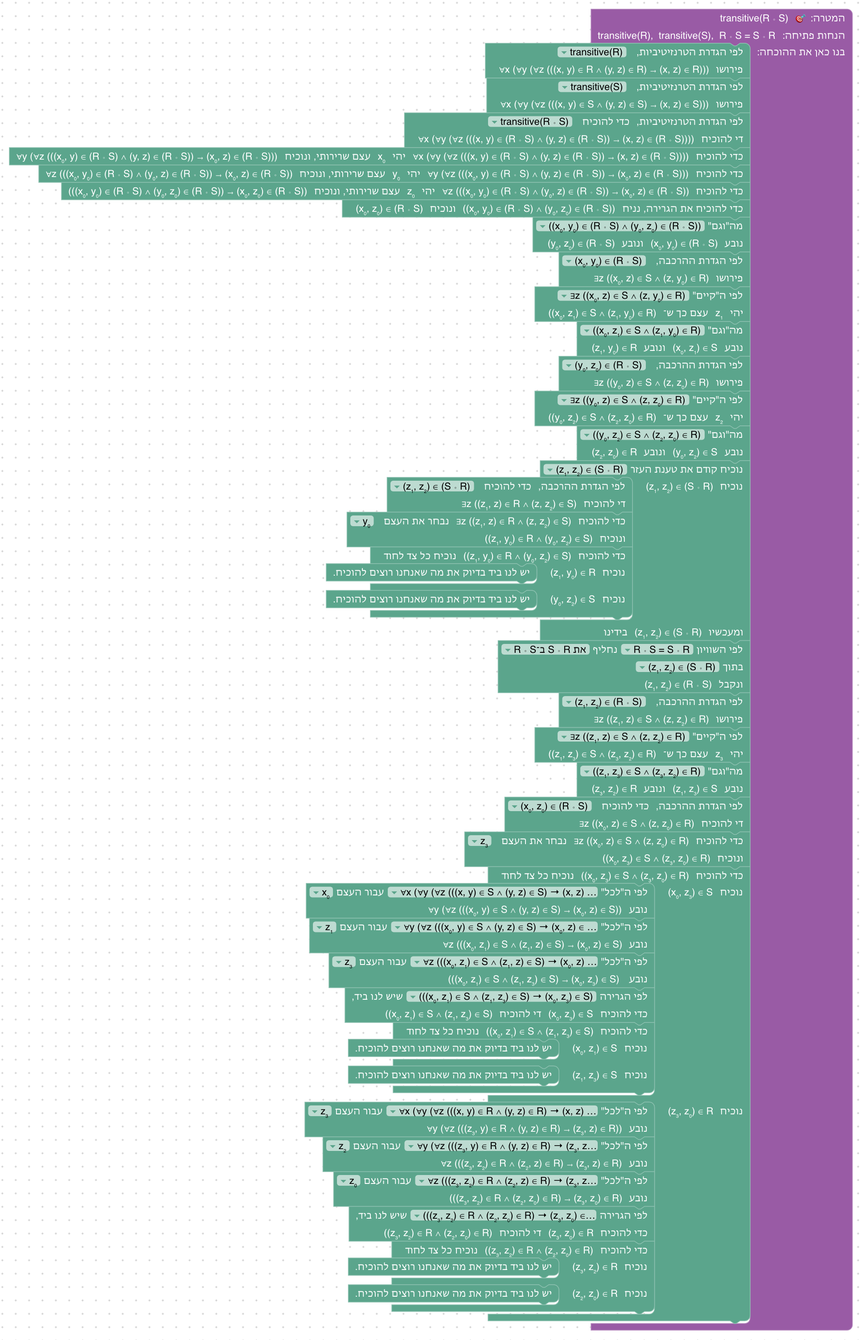
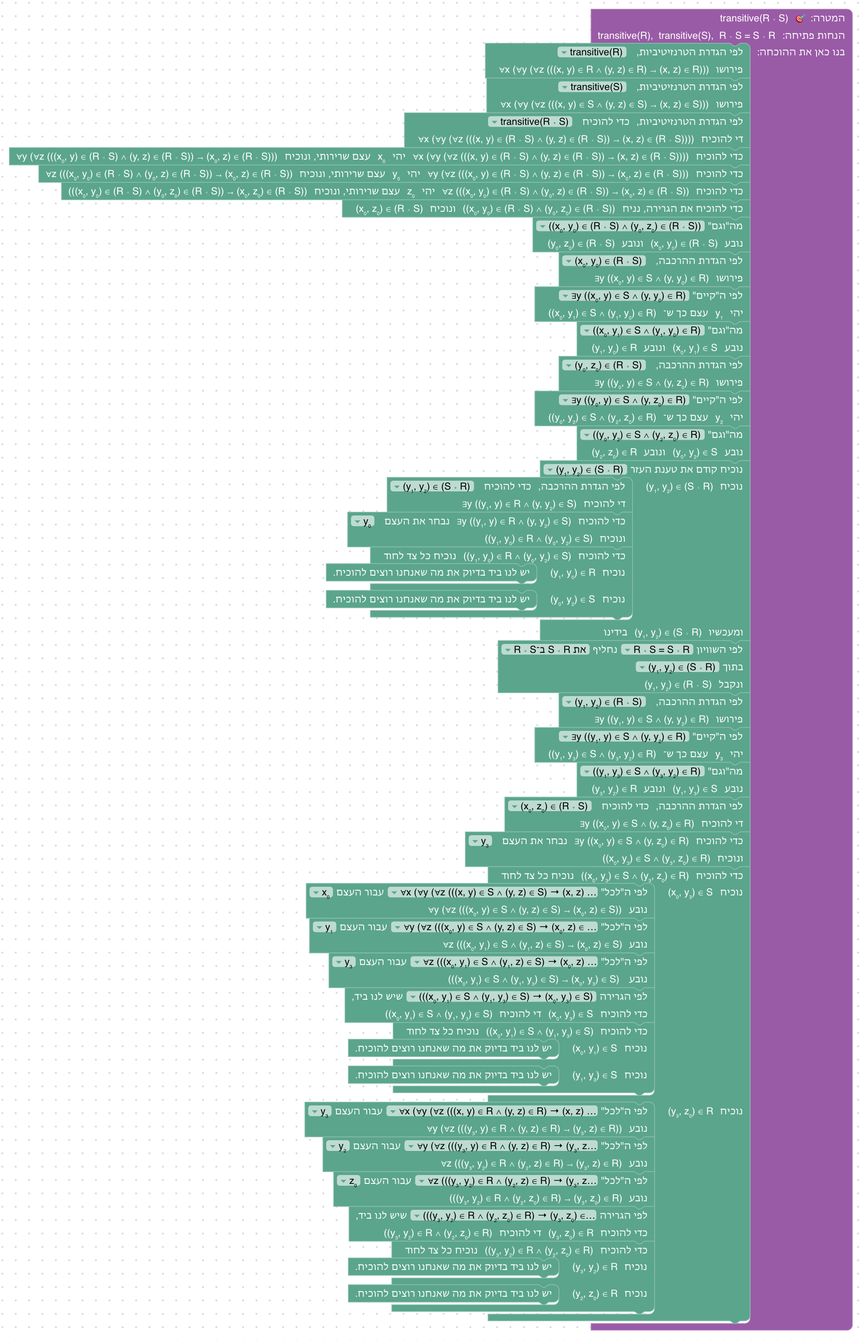
The middle of a composition is y, as in the definitions
(x, z) ∈ R ∘ S means ∃y ((x, y) ∈ S ∧ (y, z) ∈ R), and an inclusion with
a composition takes the pair (x₀, z₀), so its middle is y₀. Before, the
pair was (x₀, y₀) and the middle z₀, so using transitivity (8.9) meant
substituting x₀, z₀, y₀, against the letters of its definition.

diff --git a/frontend/e2e/walk.spec.js b/frontend/e2e/walk.spec.js
@@ -985,14 +985,14 @@ const RELATIONS = [
     },
     async (page, log) => {
         const i = await drag(page, 'subset_intro', { goal: true }); log(await phrase(page, i));
-        const u1 = await unfold(page, { after: i }, '(x₀, y₀) ∈ (R ∘ S)⁻¹', log);
-        const u2 = await unfold(page, { after: u1 }, '(y₀, x₀) ∈ (R ∘ S)', log);
-        const x = await drag(page, 'exists_elim', { after: u2 }); await choose(page, x, 'EXISTS', '∃z ((y₀, z) ∈ S ∧ (z, x₀) ∈ R)'); log(await phrase(page, x));
-        const d = await drag(page, 'and_elim', { after: x }); await choose(page, d, 'AND', '((y₀, z₀) ∈ S ∧ (z₀, x₀) ∈ R)');
-        const u3 = await unfold(page, { after: d }, '(x₀, y₀) ∈ (S⁻¹ ∘ R⁻¹)', log);
-        const w = await drag(page, 'exists_intro', { after: u3 }); await choose(page, w, 'TERM', 'z₀');
+        const u1 = await unfold(page, { after: i }, '(x₀, z₀) ∈ (R ∘ S)⁻¹', log);
+        const u2 = await unfold(page, { after: u1 }, '(z₀, x₀) ∈ (R ∘ S)', log);
+        const x = await drag(page, 'exists_elim', { after: u2 }); await choose(page, x, 'EXISTS', '∃y ((z₀, y) ∈ S ∧ (y, x₀) ∈ R)'); log(await phrase(page, x));
+        const d = await drag(page, 'and_elim', { after: x }); await choose(page, d, 'AND', '((z₀, y₀) ∈ S ∧ (y₀, x₀) ∈ R)');
+        const u3 = await unfold(page, { after: d }, '(x₀, z₀) ∈ (S⁻¹ ∘ R⁻¹)', log);
+        const w = await drag(page, 'exists_intro', { after: u3 }); await choose(page, w, 'TERM', 'y₀');
         const s = await drag(page, 'and_intro', { after: w }); log(await phrase(page, s));
-        for (const [part, pair] of [['LEFT', '(x₀, z₀) ∈ R⁻¹'], ['RIGHT', '(z₀, y₀) ∈ S⁻¹']]) {
+        for (const [part, pair] of [['LEFT', '(x₀, y₀) ∈ R⁻¹'], ['RIGHT', '(y₀, z₀) ∈ S⁻¹']]) {
             const u = await unfold(page, { into: s, input: part }, pair, log);
             await drag(page, 'exact', { after: u });
         }
@@ -1001,11 +1001,11 @@ const RELATIONS = [
         const a = await drag(page, 'assume', { goal: true }); log(await phrase(page, a));
         const u = await unfold(page, { after: a }, 'reflexive(R)', log);
         const i = await drag(page, 'subset_intro', { after: u }); log(await phrase(page, i));
-        const g = await unfold(page, { after: i }, '(x₀, y₀) ∈ (R ∘ R)', log);
-        const w = await drag(page, 'exists_intro', { after: g }); await choose(page, w, 'TERM', 'y₀');
+        const g = await unfold(page, { after: i }, '(x₀, z₀) ∈ (R ∘ R)', log);
+        const w = await drag(page, 'exists_intro', { after: g }); await choose(page, w, 'TERM', 'z₀');
         const s = await drag(page, 'and_intro', { after: w });
         await drag(page, 'exact', { into: s, input: 'LEFT' });
-        const e = await instantiate(page, { into: s, input: 'RIGHT' }, '∀x ((x, x) ∈ R)', ['y₀'], log);
+        const e = await instantiate(page, { into: s, input: 'RIGHT' }, '∀x ((x, x) ∈ R)', ['z₀'], log);
         await drag(page, 'exact', { after: e });
     },
     async (page, log) => {
@@ -1033,10 +1033,10 @@ const RELATIONS = [
         const a = await drag(page, 'assume', { into: k, input: 'FORWARD' });
         const u = await unfold(page, { after: a }, 'transitive(R)', log);
         const i = await drag(page, 'subset_intro', { after: u }); log(await phrase(page, i));
-        const v = await unfold(page, { after: i }, '(x₀, y₀) ∈ (R ∘ R)', log);
-        const x = await drag(page, 'exists_elim', { after: v }); await choose(page, x, 'EXISTS', '∃z ((x₀, z) ∈ R ∧ (z, y₀) ∈ R)'); log(await phrase(page, x));
-        const e = await instantiate(page, { after: x }, TRANS('R'), ['x₀', 'z₀', 'y₀'], log);
-        const f = await drag(page, 'forward', { after: e }); await choose(page, f, 'RULE', '(((x₀, z₀) ∈ R ∧ (z₀, y₀) ∈ R) → (x₀, y₀) ∈ R)'); await choose(page, f, 'PREMISE', '((x₀, z₀) ∈ R ∧ (z₀, y₀) ∈ R)');
+        const v = await unfold(page, { after: i }, '(x₀, z₀) ∈ (R ∘ R)', log);
+        const x = await drag(page, 'exists_elim', { after: v }); await choose(page, x, 'EXISTS', '∃y ((x₀, y) ∈ R ∧ (y, z₀) ∈ R)'); log(await phrase(page, x));
+        const e = await instantiate(page, { after: x }, TRANS('R'), ['x₀', 'y₀', 'z₀'], log);
+        const f = await drag(page, 'forward', { after: e }); await choose(page, f, 'RULE', '(((x₀, y₀) ∈ R ∧ (y₀, z₀) ∈ R) → (x₀, z₀) ∈ R)'); await choose(page, f, 'PREMISE', '((x₀, y₀) ∈ R ∧ (y₀, z₀) ∈ R)');
         await drag(page, 'exact', { after: f });
         const b = await drag(page, 'assume', { into: k, input: 'BACKWARD' });
         const g = await unfold(page, { after: b }, 'transitive(R)', log);
@@ -1121,25 +1121,25 @@ const RELATIONS = [
         for (let n = 0; n < 3; n += 1) last = await drag(page, 'forall_intro', { after: last });
         const a = await drag(page, 'assume', { after: last }); log(await phrase(page, a));
         last = await drag(page, 'and_elim', { after: a }); await choose(page, last, 'AND', '((x₀, y₀) ∈ (R ∘ S) ∧ (y₀, z₀) ∈ (R ∘ S))');
-        for (const [pair, exists, and] of [['(x₀, y₀)', '∃z ((x₀, z) ∈ S ∧ (z, y₀) ∈ R)', '((x₀, z₁) ∈ S ∧ (z₁, y₀) ∈ R)'], ['(y₀, z₀)', '∃z ((y₀, z) ∈ S ∧ (z, z₀) ∈ R)', '((y₀, z₂) ∈ S ∧ (z₂, z₀) ∈ R)']]) {
+        for (const [pair, exists, and] of [['(x₀, y₀)', '∃y ((x₀, y) ∈ S ∧ (y, y₀) ∈ R)', '((x₀, y₁) ∈ S ∧ (y₁, y₀) ∈ R)'], ['(y₀, z₀)', '∃y ((y₀, y) ∈ S ∧ (y, z₀) ∈ R)', '((y₀, y₂) ∈ S ∧ (y₂, z₀) ∈ R)']]) {
             const u = await unfold(page, { after: last }, `${pair} ∈ (R ∘ S)`, log);
             const x = await drag(page, 'exists_elim', { after: u }); await choose(page, x, 'EXISTS', exists);
             last = await drag(page, 'and_elim', { after: x }); await choose(page, last, 'AND', and);
         }
-        const c = await drag(page, 'claim', { after: last }); await choose(page, c, 'CLAIM', '(z₁, z₂) ∈ (S ∘ R)'); log(await phrase(page, c));
-        const w = await unfold(page, { into: c, input: 'PROOF' }, '(z₁, z₂) ∈ (S ∘ R)', log);
+        const c = await drag(page, 'claim', { after: last }); await choose(page, c, 'CLAIM', '(y₁, y₂) ∈ (S ∘ R)'); log(await phrase(page, c));
+        const w = await unfold(page, { into: c, input: 'PROOF' }, '(y₁, y₂) ∈ (S ∘ R)', log);
         const y = await drag(page, 'exists_intro', { after: w }); await choose(page, y, 'TERM', 'y₀');
         const s = await drag(page, 'and_intro', { after: y });
         await drag(page, 'exact', { into: s, input: 'LEFT' });
         await drag(page, 'exact', { into: s, input: 'RIGHT' });
-        const r = await rewrite(page, { after: c }, 'R ∘ S = S ∘ R', 'את S ∘ R ב־R ∘ S', '(z₁, z₂) ∈ (S ∘ R)', log);
-        const u = await unfold(page, { after: r }, '(z₁, z₂) ∈ (R ∘ S)', log);
-        const x = await drag(page, 'exists_elim', { after: u }); await choose(page, x, 'EXISTS', '∃z ((z₁, z) ∈ S ∧ (z, z₂) ∈ R)');
-        const d = await drag(page, 'and_elim', { after: x }); await choose(page, d, 'AND', '((z₁, z₃) ∈ S ∧ (z₃, z₂) ∈ R)');
+        const r = await rewrite(page, { after: c }, 'R ∘ S = S ∘ R', 'את S ∘ R ב־R ∘ S', '(y₁, y₂) ∈ (S ∘ R)', log);
+        const u = await unfold(page, { after: r }, '(y₁, y₂) ∈ (R ∘ S)', log);
+        const x = await drag(page, 'exists_elim', { after: u }); await choose(page, x, 'EXISTS', '∃y ((y₁, y) ∈ S ∧ (y, y₂) ∈ R)');
+        const d = await drag(page, 'and_elim', { after: x }); await choose(page, d, 'AND', '((y₁, y₃) ∈ S ∧ (y₃, y₂) ∈ R)');
         const g = await unfold(page, { after: d }, '(x₀, z₀) ∈ (R ∘ S)', log);
-        const v = await drag(page, 'exists_intro', { after: g }); await choose(page, v, 'TERM', 'z₃');
+        const v = await drag(page, 'exists_intro', { after: g }); await choose(page, v, 'TERM', 'y₃');
         const k = await drag(page, 'and_intro', { after: v }); log(await phrase(page, k));
-        for (const [part, rel, path] of [['LEFT', 'S', ['x₀', 'z₁', 'z₃']], ['RIGHT', 'R', ['z₃', 'z₂', 'z₀']]]) {
+        for (const [part, rel, path] of [['LEFT', 'S', ['x₀', 'y₁', 'y₃']], ['RIGHT', 'R', ['y₃', 'y₂', 'z₀']]]) {
             const e = await instantiate(page, { into: k, input: part }, TRANS(rel), path, log);
             const p = await drag(page, 'apply_rule', { after: e });
             await choose(page, p, 'RULE', `(((${path[0]}, ${path[1]}) ∈ ${rel} ∧ (${path[1]}, ${path[2]}) ∈ ${rel}) → (${path[0]}, ${path[2]}) ∈ ${rel})`);

diff --git a/frontend/e2e/solutions.js b/frontend/e2e/solutions.js
@@ -327,12 +327,12 @@ export const UNITS = [
             }],
             [{
                 label: 'פתרון',
-                steps: [subsetIntro, unfold('(x₀, y₀) ∈ (R ∘ S)⁻¹'), unfold('(y₀, x₀) ∈ R ∘ S'), existsElim('∃ z, (y₀, z) ∈ S ∧ (z, x₀) ∈ R'), andElim('(y₀, z₀) ∈ S ∧ (z₀, x₀) ∈ R'),
-                    unfold('(x₀, y₀) ∈ S⁻¹ ∘ R⁻¹'), existsIntro('z₀'), andIntro([unfold('(x₀, z₀) ∈ R⁻¹'), close], [unfold('(z₀, y₀) ∈ S⁻¹'), close])],
+                steps: [subsetIntro, unfold('(x₀, z₀) ∈ (R ∘ S)⁻¹'), unfold('(z₀, x₀) ∈ R ∘ S'), existsElim('∃ y, (z₀, y) ∈ S ∧ (y, x₀) ∈ R'), andElim('(z₀, y₀) ∈ S ∧ (y₀, x₀) ∈ R'),
+                    unfold('(x₀, z₀) ∈ S⁻¹ ∘ R⁻¹'), existsIntro('y₀'), andIntro([unfold('(x₀, y₀) ∈ R⁻¹'), close], [unfold('(y₀, z₀) ∈ S⁻¹'), close])],
             }],
             [{
                 label: 'פתרון',
-                steps: [assume, unfold('reflexive R'), subsetIntro, unfold('(x₀, y₀) ∈ R ∘ R'), existsIntro('y₀'), andIntro([close], [forallElim('∀ (x : obj), (x, x) ∈ R', 'y₀'), close])],
+                steps: [assume, unfold('reflexive R'), subsetIntro, unfold('(x₀, z₀) ∈ R ∘ R'), existsIntro('z₀'), andIntro([close], [forallElim('∀ (x : obj), (x, x) ∈ R', 'z₀'), close])],
             }],
             [{
                 label: 'פתרון',
@@ -345,9 +345,9 @@ export const UNITS = [
             [{
                 label: 'פתרון',
                 steps: [iffIntro(
-                    [assume, unfold('transitive R'), subsetIntro, unfold('(x₀, y₀) ∈ R ∘ R'), existsElim('∃ z, (x₀, z) ∈ R ∧ (z, y₀) ∈ R'),
-                        forallElim('∀ (x y z : obj), (x, y) ∈ R ∧ (y, z) ∈ R → (x, z) ∈ R', 'x₀'), forallElim('∀ (y z : obj), (x₀, y) ∈ R ∧ (y, z) ∈ R → (x₀, z) ∈ R', 'z₀'),
-                        forallElim('∀ (z : obj), (x₀, z₀) ∈ R ∧ (z₀, z) ∈ R → (x₀, z) ∈ R', 'y₀'), forward('(x₀, z₀) ∈ R ∧ (z₀, y₀) ∈ R → (x₀, y₀) ∈ R', '(x₀, z₀) ∈ R ∧ (z₀, y₀) ∈ R'), close],
+                    [assume, unfold('transitive R'), subsetIntro, unfold('(x₀, z₀) ∈ R ∘ R'), existsElim('∃ y, (x₀, y) ∈ R ∧ (y, z₀) ∈ R'),
+                        forallElim('∀ (x y z : obj), (x, y) ∈ R ∧ (y, z) ∈ R → (x, z) ∈ R', 'x₀'), forallElim('∀ (y z : obj), (x₀, y) ∈ R ∧ (y, z) ∈ R → (x₀, z) ∈ R', 'y₀'),
+                        forallElim('∀ (z : obj), (x₀, y₀) ∈ R ∧ (y₀, z) ∈ R → (x₀, z) ∈ R', 'z₀'), forward('(x₀, y₀) ∈ R ∧ (y₀, z₀) ∈ R → (x₀, z₀) ∈ R', '(x₀, y₀) ∈ R ∧ (y₀, z₀) ∈ R'), close],
                     [assume, unfold('transitive R'), forallIntro, forallIntro, forallIntro, assume, andElim('(x₀, y₀) ∈ R ∧ (y₀, z₀) ∈ R'),
                         claim('(x₀, z₀) ∈ R ∘ R', [unfold('(x₀, z₀) ∈ R ∘ R'), existsIntro('y₀'), andIntro([close], [close])]), subsetElim('R ∘ R ⊆ R', '(x₀, z₀) ∈ R ∘ R'), close])],
             }],
@@ -383,15 +383,15 @@ export const UNITS = [
             [{
                 label: 'פתרון',
                 steps: [unfold('transitive R'), unfold('transitive S'), unfold('transitive (R ∘ S)'), forallIntro, forallIntro, forallIntro, assume, andElim('(x₀, y₀) ∈ R ∘ S ∧ (y₀, z₀) ∈ R ∘ S'),
-                    unfold('(x₀, y₀) ∈ R ∘ S'), existsElim('∃ z, (x₀, z) ∈ S ∧ (z, y₀) ∈ R'), andElim('(x₀, z₁) ∈ S ∧ (z₁, y₀) ∈ R'),
-                    unfold('(y₀, z₀) ∈ R ∘ S'), existsElim('∃ z, (y₀, z) ∈ S ∧ (z, z₀) ∈ R'), andElim('(y₀, z₂) ∈ S ∧ (z₂, z₀) ∈ R'),
-                    claim('(z₁, z₂) ∈ S ∘ R', [unfold('(z₁, z₂) ∈ S ∘ R'), existsIntro('y₀'), andIntro([close], [close])]),
-                    rewrite('R ∘ S = S ∘ R', 'BACKWARD', '(z₁, z₂) ∈ S ∘ R'), unfold('(z₁, z₂) ∈ R ∘ S'), existsElim('∃ z, (z₁, z) ∈ S ∧ (z, z₂) ∈ R'), andElim('(z₁, z₃) ∈ S ∧ (z₃, z₂) ∈ R'),
-                    unfold('(x₀, z₀) ∈ R ∘ S'), existsIntro('z₃'), andIntro(
-                        [forallElim('∀ (x y z : obj), (x, y) ∈ S ∧ (y, z) ∈ S → (x, z) ∈ S', 'x₀'), forallElim('∀ (y z : obj), (x₀, y) ∈ S ∧ (y, z) ∈ S → (x₀, z) ∈ S', 'z₁'),
-                            forallElim('∀ (z : obj), (x₀, z₁) ∈ S ∧ (z₁, z) ∈ S → (x₀, z) ∈ S', 'z₃'), backward('(x₀, z₁) ∈ S ∧ (z₁, z₃) ∈ S → (x₀, z₃) ∈ S'), andIntro([close], [close])],
-                        [forallElim('∀ (x y z : obj), (x, y) ∈ R ∧ (y, z) ∈ R → (x, z) ∈ R', 'z₃'), forallElim('∀ (y z : obj), (z₃, y) ∈ R ∧ (y, z) ∈ R → (z₃, z) ∈ R', 'z₂'),
-                            forallElim('∀ (z : obj), (z₃, z₂) ∈ R ∧ (z₂, z) ∈ R → (z₃, z) ∈ R', 'z₀'), backward('(z₃, z₂) ∈ R ∧ (z₂, z₀) ∈ R → (z₃, z₀) ∈ R'), andIntro([close], [close])])],
+                    unfold('(x₀, y₀) ∈ R ∘ S'), existsElim('∃ y, (x₀, y) ∈ S ∧ (y, y₀) ∈ R'), andElim('(x₀, y₁) ∈ S ∧ (y₁, y₀) ∈ R'),
+                    unfold('(y₀, z₀) ∈ R ∘ S'), existsElim('∃ y, (y₀, y) ∈ S ∧ (y, z₀) ∈ R'), andElim('(y₀, y₂) ∈ S ∧ (y₂, z₀) ∈ R'),
+                    claim('(y₁, y₂) ∈ S ∘ R', [unfold('(y₁, y₂) ∈ S ∘ R'), existsIntro('y₀'), andIntro([close], [close])]),
+                    rewrite('R ∘ S = S ∘ R', 'BACKWARD', '(y₁, y₂) ∈ S ∘ R'), unfold('(y₁, y₂) ∈ R ∘ S'), existsElim('∃ y, (y₁, y) ∈ S ∧ (y, y₂) ∈ R'), andElim('(y₁, y₃) ∈ S ∧ (y₃, y₂) ∈ R'),
+                    unfold('(x₀, z₀) ∈ R ∘ S'), existsIntro('y₃'), andIntro(
+                        [forallElim('∀ (x y z : obj), (x, y) ∈ S ∧ (y, z) ∈ S → (x, z) ∈ S', 'x₀'), forallElim('∀ (y z : obj), (x₀, y) ∈ S ∧ (y, z) ∈ S → (x₀, z) ∈ S', 'y₁'),
+                            forallElim('∀ (z : obj), (x₀, y₁) ∈ S ∧ (y₁, z) ∈ S → (x₀, z) ∈ S', 'y₃'), backward('(x₀, y₁) ∈ S ∧ (y₁, y₃) ∈ S → (x₀, y₃) ∈ S'), andIntro([close], [close])],
+                        [forallElim('∀ (x y z : obj), (x, y) ∈ R ∧ (y, z) ∈ R → (x, z) ∈ R', 'y₃'), forallElim('∀ (y z : obj), (y₃, y) ∈ R ∧ (y, z) ∈ R → (y₃, z) ∈ R', 'y₂'),
+                            forallElim('∀ (z : obj), (y₃, y₂) ∈ R ∧ (y₂, z) ∈ R → (y₃, z) ∈ R', 'z₀'), backward('(y₃, y₂) ∈ R ∧ (y₂, z₀) ∈ R → (y₃, z₀) ∈ R'), andIntro([close], [close])])],
             }],
         ],
     },

diff --git a/frontend/src/game/formatProofGoal.js b/frontend/src/game/formatProofGoal.js
@@ -370,7 +370,8 @@ const SET_OPERATIONS = {
     '⋂': { lemma: 'easylean_mem_sInter', name: 'חיתוך המשפחה', means: (t, [f]) => `∀ S, S ∈ ${f} → ${t} ∈ S` },
     // Relations (unit 8): a member is a pair (x, y).
     '⁻¹': { lemma: 'easylean_mem_inv', name: 'היחס ההפוך', means: (t, [r]) => { const [x, y] = pairOf(t); return `(${y}, ${x}) ∈ ${r}`; } },
-    '∘': { lemma: 'easylean_mem_comp', name: 'ההרכבה', means: (t, [r, s]) => { const [x, y] = pairOf(t); return `∃ z, (${x}, z) ∈ ${s} ∧ (z, ${y}) ∈ ${r}`; } },
+    // The middle of a composition is y, as in the textbooks: (x, z) ∈ R ∘ S.
+    '∘': { lemma: 'easylean_mem_comp', name: 'ההרכבה', means: (t, [r, s]) => { const [x, z] = pairOf(t); return `∃ y, (${x}, y) ∈ ${s} ∧ (y, ${z}) ∈ ${r}`; } },
     '[]_': { lemma: 'easylean_mem_cls', name: 'מחלקת השקילות', means: (t, [x, r]) => `(${stripOuterParentheses(x)}, ${stripOuterParentheses(t)}) ∈ ${r}` },
     // Functions (unit 9): the image, the preimage, and a set given by a property.
     image: { lemma: 'easylean_mem_image', name: 'התמונה', means: (t, [f, a]) => `∃ x, x ∈ ${a} ∧ ${f} x = ${t}` },

diff --git a/frontend/src/blocks/moves.js b/frontend/src/blocks/moves.js
@@ -489,8 +489,10 @@ const negation = (formula) => `¬(${formula})`;
 // an object.
 const elementName = (block, smaller, larger = '') => {
     if (isRelationSet(block, smaller) || isRelationSet(block, larger)) {
+        // With a composition, (x₀, z₀), so that its middle is y₀, as the
+        // definitions (of composition, of transitivity) name it.
         const x = newObjectName(block, 'x');
-        return `(${x}, ${freshName('y', [...thingsInHand(block), x])})`;
+        return `(${x}, ${freshName(`${smaller} ${larger}`.includes('∘') ? 'z' : 'y', [...thingsInHand(block), x])})`;
     }
     if (smaller.startsWith('Set.image')) return newObjectName(block, 'y');
     return newObjectName(block, smaller.startsWith('𝒫') || larger.startsWith('𝒫') ? 'X' : 'x');

diff --git a/docs/curriculum/08-equality-and-relations.md b/docs/curriculum/08-equality-and-relations.md
@@ -15,7 +15,7 @@
 | **החלפה לפי שוויון, במטרה:** לפי השוויון [a = b] נחליף [את a ב־b] בתוך [המטרה], ונקבל שצריך להוכיח b = b | `rewrite [‹a = b›]` (ובכיוון השני `rewrite [← ‹a = b›]`) | `a = b ⊢ b = a` ⟶ `a = b ⊢ b = b` |
 | **הוכחת הכלה של יחסים:** כדי להוכיח R ⊆ R ∘ R יהי (x₀, y₀) ∈ R ונוכיח (x₀, y₀) ∈ (R ∘ R) | `first \| refine easylean_subset_intro_pair (fun x₀ y₀ _ => ?_) \| refine easylean_subset_intro (fun x₀ _ => ?_)` | `⊢ R ⊆ R ∘ R` ⟶ עצמים חדשים x₀, y₀, `(x₀, y₀) ∈ R ⊢ (x₀, y₀) ∈ (R ∘ R)` |
 | **לפי ההגדרה, על טענה שבידינו:** לפי הגדרת היחס ההפוך, [(x₀, y₀) ∈ (R ∘ S)⁻¹] פירושו (y₀, x₀) ∈ (R ∘ S) | `first \| (guard_target =ₛ …; apply easylean_mem_inv.mpr) \| (have := easylean_mem_inv.mp ‹(x₀, y₀) ∈ (R ∘ S)⁻¹›)` | `(x₀, y₀) ∈ (R ∘ S)⁻¹` ⟶ גם `(y₀, x₀) ∈ (R ∘ S)` |
-| **לפי ההגדרה, על המטרה:** לפי הגדרת ההרכבה, כדי להוכיח [(x₀, y₀) ∈ (R ∘ R)] די להוכיח ∃z ((x₀, z) ∈ R ∧ (z, y₀) ∈ R) | אותו קוד, עם `easylean_mem_comp` | `⊢ (x₀, y₀) ∈ (R ∘ R)` ⟶ `⊢ ∃z ((x₀, z) ∈ R ∧ (z, y₀) ∈ R)` |
+| **לפי ההגדרה, על המטרה:** לפי הגדרת ההרכבה, כדי להוכיח [(x₀, z₀) ∈ (R ∘ R)] די להוכיח ∃y ((x₀, y) ∈ R ∧ (y, z₀) ∈ R) | אותו קוד, עם `easylean_mem_comp` | `⊢ (x₀, y₀) ∈ (R ∘ R)` ⟶ `⊢ ∃y ((x₀, y) ∈ R ∧ (y, y₀) ∈ R)` |
 | **לפי ההגדרה, על תכונה של יחס:** לפי הגדרת הרפלקסיביות, [reflexive(R)] פירושו ∀x ((x, x) ∈ R) | אותו קוד, עם `easylean_reflexive` | `reflexive(R) ⊢ …` ⟶ גם `∀x ((x, x) ∈ R)` |
 
 לפני שהבלוקים במקומם הם כתובים באופן כללי: "שני הצדדים שווים לפי ההגדרה.", "לפי השוויון ? נחליף ... בתוך ...", "כדי להוכיח הכלה: יהי איבר של הקבוצה המוכלת, ונוכיח שהוא שייך לקבוצה המכילה", "לפי ההגדרה, ?".
@@ -25,7 +25,7 @@
 | הגדרה (כפי שהמהלך כותב) | טענה | פירושה | Lean | שלב |
 |---|---|---|---|---|
 | היחס ההפוך | `(x, y) ∈ R⁻¹` | `(y, x) ∈ R` | `Set.inv`, `easylean_mem_inv` | 8.5 |
-| ההרכבה | `(x, y) ∈ (R ∘ S)` | `∃z ((x, z) ∈ S ∧ (z, y) ∈ R)` | `Set.comp`, `easylean_mem_comp` | 8.6 |
+| ההרכבה | `(x, y) ∈ (R ∘ S)` | `∃y ((x, y) ∈ S ∧ (y, y) ∈ R)` | `Set.comp`, `easylean_mem_comp` | 8.6 |
 | הרפלקסיביות | `reflexive(R)` | `∀x ((x, x) ∈ R)` | `reflexive`, `easylean_reflexive` | 8.7 |
 | הסימטריות | `symmetric(R)` | `∀x (∀y ((x, y) ∈ R → (y, x) ∈ R))` | `symmetric`, `easylean_symmetric` | 8.8 |
 | הטרנזיטיביות | `transitive(R)` | `∀x (∀y (∀z (((x, y) ∈ R ∧ (y, z) ∈ R) → (x, z) ∈ R)))` | `transitive`, `easylean_transitive` | 8.9 |
@@ -48,7 +48,7 @@
 
 **הוחלט: יחסים כקבוצות של זוגות.** בקורס יחס הוא קבוצה של זוגות סדורים, R ⊆ A × A, ו־(x, y) ∈ R פירושו ש־x ביחס R ל־y. מחבר הקורס בחר בזה, ולא בכתיבה של יחס כטענה על שני עצמים, R(x,y) (כמו בשלבים 12.3–12.4, שנכתבו לפני היחידה). היתרונות: זה הכתיב של הקורס; יחס הוא קבוצה, ולכן חיתוך, איחוד, הכלה ושוויון של יחסים הם הפעולות של יחידה 6, והמהלכים שלהן עובדים כמו שהם; ותכונה כמו "R סימטרי" אפשר לנסח כהכלה, R⁻¹ ⊆ R (8.8). המחיר: האיבר של יחס הוא זוג, ולכן מהלך הוכחת ההכלה צריך לפרק אותו (ראו למעלה). כל היחסים ביחידה הם על תחום אחד, העצמים (`Set (obj × obj)`); יחס בין שתי קבוצות שונות, ומכפלה קרטזית A × B כקבוצה, לא נכללו.
 
-**הוחלט: סדר ההרכבה.** R ∘ S היא "קודם S, ואחר כך R": (x, y) ∈ R ∘ S פירושו ∃z ((x, z) ∈ S ∧ (z, y) ∈ R). זה הסדר של הקורס, והוא גם הסדר של הרכבת פונקציות ביחידה 9 ((g ∘ f)(x) = g(f(x)): קודם f). יש ספרים שכותבים את ההרכבה בסדר ההפוך, ולכן ההגדרה כתובה במפורש בכרטיס של שלב 8.6 ובטקסט הפתיחה שלו ("קודם S, ואחר כך R"), והמהלך כותב אותה בכל פעם שפותחים אותה. השלבים בנויים כך שהסדר משנה: ב־8.6 הסדר של ההפוכים מתהפך, (R ∘ S)⁻¹ ⊆ S⁻¹ ∘ R⁻¹, וב־8.14 השוויון R ∘ S = S ∘ R הוא הנחה, ולא דבר שנכון תמיד.
+**הוחלט: סדר ההרכבה.** R ∘ S היא "קודם S, ואחר כך R": (x, y) ∈ R ∘ S פירושו ∃y ((x, y) ∈ S ∧ (y, y) ∈ R). זה הסדר של הקורס, והוא גם הסדר של הרכבת פונקציות ביחידה 9 ((g ∘ f)(x) = g(f(x)): קודם f). יש ספרים שכותבים את ההרכבה בסדר ההפוך, ולכן ההגדרה כתובה במפורש בכרטיס של שלב 8.6 ובטקסט הפתיחה שלו ("קודם S, ואחר כך R"), והמהלך כותב אותה בכל פעם שפותחים אותה. השלבים בנויים כך שהסדר משנה: ב־8.6 הסדר של ההפוכים מתהפך, (R ∘ S)⁻¹ ⊆ S⁻¹ ∘ R⁻¹, וב־8.14 השוויון R ∘ S = S ∘ R הוא הנחה, ולא דבר שנכון תמיד.
 
 **הוחלט: השוויון בתחילת יחידת היחסים, ונכתב מחדש.** לבקשת מחבר הקורס, סדר היחידות הוא עכשיו של תכנון הסמסטר: קבוצות, יחסים, פונקציות, אינדוקציה. קודם השוויון היה בתחילת יחידת האינדוקציה, ועל מספרים (y = x + 7 ⊢ 2 · y = 2 · (x + 7)); עכשיו הוא בתחילת יחידת היחסים, כי השוויון הוא היחס הראשון, והשלבים שלו נכתבו מחדש לפי התכונות של יחס: 8.1 הוא רפלקסיביות (a = a), 8.2 החלפה, בתוך טענה על יחס ((a, c) ∈ R ⊢ (b, c) ∈ R), 8.3 סימטריה ו־8.4 טרנזיטיביות, וטקסט הסיום של 8.4 אומר שהשוויון הוא יחס שקילות. הסימטריה, שקודם הוזכרה רק בטקסט הסיום של הטרנזיטיביות, היא עכשיו שלב משלה. השלב n + 0 = n, שהציג את "שני הצדדים שווים לפי ההגדרה" על מספרים, עבר ליחידת האינדוקציה (10.1), ושם המהלך כבר מוכר. יחידת האינדוקציה (10) משתמשת בשני המהלכים של השוויון כמו שהם.
 
@@ -151,7 +151,7 @@
 
 **למה כך.** ההגדרה של ההרכבה היא "קיים", ולכן משתמשים בה כמו ביחידה 4: מקבלים ממנה את תחנת הביניים z₀ בהנחה, ובוחרים אותה כעד במטרה, כמו בשלבים 7.5 ו־7.7. הטענה מכריחה לשים לב לסדר: בהנחה S בא קודם, ובמטרה R⁻¹ בא קודם. טקסט הסיום אומר שגם ההכלה ההפוכה נכונה, ונותן את הדימוי של גרביים ונעליים.
 
-**פתרון.** "כדי להוכיח (R ∘ S)⁻¹ ⊆ S⁻¹ ∘ R⁻¹ יהי (x₀, y₀) ∈ (R ∘ S)⁻¹ ונוכיח (x₀, y₀) ∈ (S⁻¹ ∘ R⁻¹)", "לפי הגדרת היחס ההפוך, (x₀, y₀) ∈ (R ∘ S)⁻¹ פירושו (y₀, x₀) ∈ (R ∘ S)", "לפי הגדרת ההרכבה, (y₀, x₀) ∈ (R ∘ S) פירושו ∃z ((y₀, z) ∈ S ∧ (z, x₀) ∈ R)", "לפי ה"קיים" ∃z ((y₀, z) ∈ S ∧ (z, x₀) ∈ R) יהי z₀ עצם כך ש־((y₀, z₀) ∈ S ∧ (z₀, x₀) ∈ R)", ו"מה"וגם" … נובע (y₀, z₀) ∈ S ונובע (z₀, x₀) ∈ R". במטרה: "לפי הגדרת ההרכבה, כדי להוכיח (x₀, y₀) ∈ (S⁻¹ ∘ R⁻¹) די להוכיח ∃z ((x₀, z) ∈ R⁻¹ ∧ (z, y₀) ∈ S⁻¹)", "כדי להוכיח ∃z (…) נבחר את העצם z₀ ונוכיח ((x₀, z₀) ∈ R⁻¹ ∧ (z₀, y₀) ∈ S⁻¹)", ו"נוכיח כל צד לחוד". בחלק "נוכיח (x₀, z₀) ∈ R⁻¹": "לפי הגדרת היחס ההפוך, כדי להוכיח (x₀, z₀) ∈ R⁻¹ די להוכיח (z₀, x₀) ∈ R", ו"יש לנו ביד...". בחלק "נוכיח (z₀, y₀) ∈ S⁻¹": "… די להוכיח (y₀, z₀) ∈ S", ו"יש לנו ביד...". 12 בלוקים.
+**פתרון.** "כדי להוכיח (R ∘ S)⁻¹ ⊆ S⁻¹ ∘ R⁻¹ יהי (x₀, z₀) ∈ (R ∘ S)⁻¹ ונוכיח (x₀, z₀) ∈ (S⁻¹ ∘ R⁻¹)", "לפי הגדרת היחס ההפוך, (x₀, z₀) ∈ (R ∘ S)⁻¹ פירושו (z₀, x₀) ∈ (R ∘ S)", "לפי הגדרת ההרכבה, (z₀, x₀) ∈ (R ∘ S) פירושו ∃y ((z₀, y) ∈ S ∧ (y, x₀) ∈ R)", "לפי ה"קיים" ∃y ((z₀, y) ∈ S ∧ (y, x₀) ∈ R) יהי y₀ עצם כך ש־((z₀, y₀) ∈ S ∧ (y₀, x₀) ∈ R)", ו"מה"וגם" … נובע (z₀, y₀) ∈ S ונובע (y₀, x₀) ∈ R". במטרה: "לפי הגדרת ההרכבה, כדי להוכיח (x₀, z₀) ∈ (S⁻¹ ∘ R⁻¹) די להוכיח ∃y ((x₀, y) ∈ R⁻¹ ∧ (y, z₀) ∈ S⁻¹)", "כדי להוכיח ∃y (…) נבחר את העצם y₀ ונוכיח ((x₀, y₀) ∈ R⁻¹ ∧ (y₀, z₀) ∈ S⁻¹)", ו"נוכיח כל צד לחוד". בחלק "נוכיח (x₀, y₀) ∈ R⁻¹": "לפי הגדרת היחס ההפוך, כדי להוכיח (x₀, y₀) ∈ R⁻¹ די להוכיח (y₀, x₀) ∈ R", ו"יש לנו ביד...". בחלק "נוכיח (y₀, z₀) ∈ S⁻¹": "… די להוכיח (z₀, y₀) ∈ S", ו"יש לנו ביד...". 12 בלוקים.
 
 ![שלב 8.6](images/unit8-level6-a.png)
 
@@ -168,7 +168,7 @@
 
 **למה כך.** תכונה ראשונה, בהוכחה קצרה שמשתמשת בה פעם אחת: בתחנת הביניים בוחרים את y₀, ואת הזוג (y₀, y₀) נותנת הרפלקסיביות, בהצבה ב"לכל". טקסט הפתיחה נותן את הרעיון ("אפשר לעבור מ־x₀ ל־y₀, ואחר כך להישאר ב־y₀"), וטקסט הסיום מכין את 8.9: ההכלה ההפוכה, R ∘ R ⊆ R, היא בדיוק טרנזיטיביות.
 
-**פתרון.** "כדי להוכיח את הגרירה, נניח reflexive(R) ונוכיח R ⊆ R ∘ R", "לפי הגדרת הרפלקסיביות, reflexive(R) פירושו ∀x ((x, x) ∈ R)", "כדי להוכיח R ⊆ R ∘ R יהי (x₀, y₀) ∈ R ונוכיח (x₀, y₀) ∈ (R ∘ R)", "לפי הגדרת ההרכבה, כדי להוכיח (x₀, y₀) ∈ (R ∘ R) די להוכיח ∃z ((x₀, z) ∈ R ∧ (z, y₀) ∈ R)", "… נבחר את העצם y₀ ונוכיח ((x₀, y₀) ∈ R ∧ (y₀, y₀) ∈ R)", ו"נוכיח כל צד לחוד". בחלק "נוכיח (x₀, y₀) ∈ R": "יש לנו ביד...". בחלק "נוכיח (y₀, y₀) ∈ R": "לפי ה"לכל" ∀x ((x, x) ∈ R) עבור העצם y₀ נובע (y₀, y₀) ∈ R", ו"יש לנו ביד...". 9 בלוקים.
+**פתרון.** "כדי להוכיח את הגרירה, נניח reflexive(R) ונוכיח R ⊆ R ∘ R", "לפי הגדרת הרפלקסיביות, reflexive(R) פירושו ∀x ((x, x) ∈ R)", "כדי להוכיח R ⊆ R ∘ R יהי (x₀, z₀) ∈ R ונוכיח (x₀, z₀) ∈ (R ∘ R)", "לפי הגדרת ההרכבה, כדי להוכיח (x₀, z₀) ∈ (R ∘ R) די להוכיח ∃y ((x₀, y) ∈ R ∧ (y, z₀) ∈ R)", "… נבחר את העצם z₀ ונוכיח ((x₀, z₀) ∈ R ∧ (z₀, z₀) ∈ R)", ו"נוכיח כל צד לחוד". בחלק "נוכיח (x₀, z₀) ∈ R": "יש לנו ביד...". בחלק "נוכיח (z₀, z₀) ∈ R": "לפי ה"לכל" ∀x ((x, x) ∈ R) עבור העצם z₀ נובע (z₀, z₀) ∈ R", ו"יש לנו ביד...". 9 בלוקים.
 
 ![שלב 8.7](images/unit8-level7-a.png)
 
@@ -201,7 +201,7 @@
 
 **למה כך.** אותו מבנה כמו 8.8, עם תכונה ששלושה משתנים בה, והגדרה (ההרכבה) שהיא "קיים". בכיוון →, תחנת הביניים z₀ באה מה"קיים", ומציבים בטרנזיטיביות את x₀, z₀ ו־y₀, בסדר הזה. בכיוון ←, טענת העזר היא שהזוג (x₀, z₀) נמצא ב־R ∘ R, עם y₀ כתחנת ביניים; אחר כך ההכלה נותנת את המטרה. יחד עם 8.7, טקסט הסיום אומר שביחס רפלקסיבי וטרנזיטיבי R ∘ R = R.
 
-**פתרון.** "כדי להוכיח (transitive(R) ↔ R ∘ R ⊆ R) נוכיח את שני הכיוונים". בחלק "נוכיח (transitive(R) → R ∘ R ⊆ R)": "נניח transitive(R) ונוכיח R ∘ R ⊆ R", "לפי הגדרת הטרנזיטיביות, transitive(R) פירושו ∀x (∀y (∀z (((x, y) ∈ R ∧ (y, z) ∈ R) → (x, z) ∈ R)))", "כדי להוכיח R ∘ R ⊆ R יהי (x₀, y₀) ∈ (R ∘ R) ונוכיח (x₀, y₀) ∈ R", "לפי הגדרת ההרכבה, (x₀, y₀) ∈ (R ∘ R) פירושו ∃z ((x₀, z) ∈ R ∧ (z, y₀) ∈ R)", "לפי ה"קיים" … יהי z₀ עצם כך ש־((x₀, z₀) ∈ R ∧ (z₀, y₀) ∈ R)", שלוש הצבות ב"לכל", עבור x₀, z₀ ו־y₀, עד ש"נובע (((x₀, z₀) ∈ R ∧ (z₀, y₀) ∈ R) → (x₀, y₀) ∈ R)", "מהגרירה … ומ־((x₀, z₀) ∈ R ∧ (z₀, y₀) ∈ R) נובע (x₀, y₀) ∈ R", ו"יש לנו ביד...". בחלק "נוכיח (R ∘ R ⊆ R → transitive(R))": "נניח R ∘ R ⊆ R ונוכיח transitive(R)", "לפי הגדרת הטרנזיטיביות, כדי להוכיח transitive(R) די להוכיח ∀x (∀y (∀z (…)))", שלוש פעמים "יהי … עצם שרירותי" (x₀, y₀, z₀), "נניח ((x₀, y₀) ∈ R ∧ (y₀, z₀) ∈ R) ונוכיח (x₀, z₀) ∈ R", "מה"וגם" … נובע (x₀, y₀) ∈ R ונובע (y₀, z₀) ∈ R", ו"נוכיח קודם את טענת העזר (x₀, z₀) ∈ (R ∘ R)"; בחלק שלה: "לפי הגדרת ההרכבה, כדי להוכיח (x₀, z₀) ∈ (R ∘ R) די להוכיח ∃z ((x₀, z) ∈ R ∧ (z, z₀) ∈ R)", "נבחר את העצם y₀ ונוכיח ((x₀, y₀) ∈ R ∧ (y₀, z₀) ∈ R)", "נוכיח כל צד לחוד", ובכל צד "יש לנו ביד..."; "ומעכשיו (x₀, z₀) ∈ (R ∘ R) בידינו". לבסוף "לפי ההכלה R ∘ R ⊆ R ומ־(x₀, z₀) ∈ (R ∘ R) נובע (x₀, z₀) ∈ R", ו"יש לנו ביד...". 26 בלוקים.
+**פתרון.** "כדי להוכיח (transitive(R) ↔ R ∘ R ⊆ R) נוכיח את שני הכיוונים". בחלק "נוכיח (transitive(R) → R ∘ R ⊆ R)": "נניח transitive(R) ונוכיח R ∘ R ⊆ R", "לפי הגדרת הטרנזיטיביות, transitive(R) פירושו ∀x (∀y (∀z (((x, y) ∈ R ∧ (y, z) ∈ R) → (x, z) ∈ R)))", "כדי להוכיח R ∘ R ⊆ R יהי (x₀, z₀) ∈ (R ∘ R) ונוכיח (x₀, z₀) ∈ R", "לפי הגדרת ההרכבה, (x₀, z₀) ∈ (R ∘ R) פירושו ∃y ((x₀, y) ∈ R ∧ (y, z₀) ∈ R)", "לפי ה"קיים" … יהי y₀ עצם כך ש־((x₀, y₀) ∈ R ∧ (y₀, z₀) ∈ R)", שלוש הצבות ב"לכל", עבור x₀, y₀ ו־z₀, עד ש"נובע (((x₀, y₀) ∈ R ∧ (y₀, z₀) ∈ R) → (x₀, z₀) ∈ R)", "מהגרירה … ומ־((x₀, y₀) ∈ R ∧ (y₀, z₀) ∈ R) נובע (x₀, z₀) ∈ R", ו"יש לנו ביד...". בחלק "נוכיח (R ∘ R ⊆ R → transitive(R))": "נניח R ∘ R ⊆ R ונוכיח transitive(R)", "לפי הגדרת הטרנזיטיביות, כדי להוכיח transitive(R) די להוכיח ∀x (∀y (∀z (…)))", שלוש פעמים "יהי … עצם שרירותי" (x₀, y₀, z₀), "נניח ((x₀, y₀) ∈ R ∧ (y₀, z₀) ∈ R) ונוכיח (x₀, z₀) ∈ R", "מה"וגם" … נובע (x₀, y₀) ∈ R ונובע (y₀, z₀) ∈ R", ו"נוכיח קודם את טענת העזר (x₀, z₀) ∈ (R ∘ R)"; בחלק שלה: "לפי הגדרת ההרכבה, כדי להוכיח (x₀, z₀) ∈ (R ∘ R) די להוכיח ∃y ((x₀, y) ∈ R ∧ (y, z₀) ∈ R)", "נבחר את העצם y₀ ונוכיח ((x₀, y₀) ∈ R ∧ (y₀, z₀) ∈ R)", "נוכיח כל צד לחוד", ובכל צד "יש לנו ביד..."; "ומעכשיו (x₀, z₀) ∈ (R ∘ R) בידינו". לבסוף "לפי ההכלה R ∘ R ⊆ R ומ־(x₀, z₀) ∈ (R ∘ R) נובע (x₀, z₀) ∈ R", ו"יש לנו ביד...". 26 בלוקים.
 
 ![שלב 8.9](images/unit8-level9-a.png)
 
@@ -275,20 +275,20 @@
 
 ### שלב 8.14: שלב בונוס: הרכבה של יחסים טרנזיטיביים
 
-`transitive(R), transitive(S), R ∘ S = S ∘ R ⊢ transitive(R ∘ S)` · יחסים: R, S · בארגז: לפי ההגדרה, הוכחת "לכל", הנחת התנאי, שימוש ב"וגם", שימוש ב"קיים", טענת עזר, הוכחת "קיים", הוכחת "וגם", החלפה לפי שוויון, שימוש ב"לכל", גרירה אחורה, יש לנו ביד · בתפריט של טענת העזר: `(z₁, z₂) ∈ (S ∘ R)`, `(z₁, z₂) ∈ (R ∘ S)`, `(x₀, z₀) ∈ S`
+`transitive(R), transitive(S), R ∘ S = S ∘ R ⊢ transitive(R ∘ S)` · יחסים: R, S · בארגז: לפי ההגדרה, הוכחת "לכל", הנחת התנאי, שימוש ב"וגם", שימוש ב"קיים", טענת עזר, הוכחת "קיים", הוכחת "וגם", החלפה לפי שוויון, שימוש ב"לכל", גרירה אחורה, יש לנו ביד · בתפריט של טענת העזר: `(y₁, y₂) ∈ (S ∘ R)`, `(y₁, y₂) ∈ (R ∘ S)`, `(x₀, z₀) ∈ S`
 
 **מה לומדים.** לשלב את כל היחידה: פתיחת תכונות והרכבות, שני "קיים", טענת עזר, והחלפה לפי שוויון של *יחסים* בתוך טענת שייכות, כמו בשלבים 8.2–8.4.
 
-**למה כך.** שאלה ממבחן (2023ב, מועד ב), כמו שטקסט הפתיחה אומר. מ־(x₀, y₀) ∈ R ∘ S ומ־(y₀, z₀) ∈ R ∘ S מקבלים ארבעה צעדים: S, R, S, R. בשני האמצעיים, R ואחריו S, יש זוג ב־S ∘ R, ולפי השוויון R ∘ S = S ∘ R מחליפים את הסדר שלהם; אז שני צעדי S באים יחד ושני צעדי R באים יחד, וכל זוג מתאחד בטרנזיטיביות. טענת העזר היא הזוג האמצעי, (z₁, z₂) ∈ S ∘ R, עם y₀ כתחנת ביניים: בלעדיה אין טענה שאפשר להחליף בה לפי השוויון. השלב מחזיר את השוויון של תחילת היחידה, הפעם בין יחסים, וטקסט הסיום אומר זאת.
+**למה כך.** שאלה ממבחן (2023ב, מועד ב), כמו שטקסט הפתיחה אומר. מ־(x₀, y₀) ∈ R ∘ S ומ־(y₀, z₀) ∈ R ∘ S מקבלים ארבעה צעדים: S, R, S, R. בשני האמצעיים, R ואחריו S, יש זוג ב־S ∘ R, ולפי השוויון R ∘ S = S ∘ R מחליפים את הסדר שלהם; אז שני צעדי S באים יחד ושני צעדי R באים יחד, וכל זוג מתאחד בטרנזיטיביות. טענת העזר היא הזוג האמצעי, (y₁, y₂) ∈ S ∘ R, עם y₀ כתחנת ביניים: בלעדיה אין טענה שאפשר להחליף בה לפי השוויון. השלב מחזיר את השוויון של תחילת היחידה, הפעם בין יחסים, וטקסט הסיום אומר זאת.
 
-**פתרון.** "לפי הגדרת הטרנזיטיביות", שלוש פעמים: על transitive(R) ועל transitive(S) שבידינו, ועל המטרה ("כדי להוכיח transitive(R ∘ S) די להוכיח ∀x (∀y (∀z (((x, y) ∈ (R ∘ S) ∧ (y, z) ∈ (R ∘ S)) → (x, z) ∈ (R ∘ S))))"). שלוש פעמים "יהי … עצם שרירותי" (x₀, y₀, z₀), "נניח ((x₀, y₀) ∈ (R ∘ S) ∧ (y₀, z₀) ∈ (R ∘ S)) ונוכיח (x₀, z₀) ∈ (R ∘ S)", ו"מה"וגם"". "לפי הגדרת ההרכבה, (x₀, y₀) ∈ (R ∘ S) פירושו ∃z ((x₀, z) ∈ S ∧ (z, y₀) ∈ R)", "לפי ה"קיים" … יהי z₁ עצם כך ש־((x₀, z₁) ∈ S ∧ (z₁, y₀) ∈ R)" ו"מה"וגם""; אותו דבר עם (y₀, z₀) ∈ (R ∘ S), ו־z₂. "נוכיח קודם את טענת העזר (z₁, z₂) ∈ (S ∘ R)"; בחלק שלה: "לפי הגדרת ההרכבה, כדי להוכיח (z₁, z₂) ∈ (S ∘ R) די להוכיח ∃z ((z₁, z) ∈ R ∧ (z, z₂) ∈ S)", "נבחר את העצם y₀ ונוכיח ((z₁, y₀) ∈ R ∧ (y₀, z₂) ∈ S)", "נוכיח כל צד לחוד", ובכל צד "יש לנו ביד..."; "ומעכשיו (z₁, z₂) ∈ (S ∘ R) בידינו". "לפי השוויון R ∘ S = S ∘ R נחליף את S ∘ R ב־R ∘ S בתוך (z₁, z₂) ∈ (S ∘ R), ונקבל (z₁, z₂) ∈ (R ∘ S)", הגדרת ההרכבה עליה, ו"יהי z₃ עצם כך ש־((z₁, z₃) ∈ S ∧ (z₃, z₂) ∈ R)" ו"מה"וגם"". במטרה: "לפי הגדרת ההרכבה, כדי להוכיח (x₀, z₀) ∈ (R ∘ S) די להוכיח ∃z ((x₀, z) ∈ S ∧ (z, z₀) ∈ R)", "נבחר את העצם z₃ ונוכיח ((x₀, z₃) ∈ S ∧ (z₃, z₀) ∈ R)", ו"נוכיח כל צד לחוד". בחלק "נוכיח (x₀, z₃) ∈ S": הצבה בטרנזיטיביות של S של x₀, z₁ ו־z₃, "לפי הגרירה … כדי להוכיח (x₀, z₃) ∈ S די להוכיח ((x₀, z₁) ∈ S ∧ (z₁, z₃) ∈ S)", ובכל צד "יש לנו ביד...". בחלק "נוכיח (z₃, z₀) ∈ R": הצבה בטרנזיטיביות של R של z₃, z₂ ו־z₀, גרירה אחורה, ובכל צד "יש לנו ביד...". 41 בלוקים.
+**פתרון.** "לפי הגדרת הטרנזיטיביות", שלוש פעמים: על transitive(R) ועל transitive(S) שבידינו, ועל המטרה ("כדי להוכיח transitive(R ∘ S) די להוכיח ∀x (∀y (∀z (((x, y) ∈ (R ∘ S) ∧ (y, z) ∈ (R ∘ S)) → (x, z) ∈ (R ∘ S))))"). שלוש פעמים "יהי … עצם שרירותי" (x₀, y₀, z₀), "נניח ((x₀, y₀) ∈ (R ∘ S) ∧ (y₀, z₀) ∈ (R ∘ S)) ונוכיח (x₀, z₀) ∈ (R ∘ S)", ו"מה"וגם"". "לפי הגדרת ההרכבה, (x₀, y₀) ∈ (R ∘ S) פירושו ∃y ((x₀, y) ∈ S ∧ (y, y₀) ∈ R)", "לפי ה"קיים" … יהי y₁ עצם כך ש־((x₀, y₁) ∈ S ∧ (y₁, y₀) ∈ R)" ו"מה"וגם""; אותו דבר עם (y₀, z₀) ∈ (R ∘ S), ו־y₂. "נוכיח קודם את טענת העזר (y₁, y₂) ∈ (S ∘ R)"; בחלק שלה: "לפי הגדרת ההרכבה, כדי להוכיח (y₁, y₂) ∈ (S ∘ R) די להוכיח ∃y ((y₁, y) ∈ R ∧ (y, y₂) ∈ S)", "נבחר את העצם y₀ ונוכיח ((y₁, y₀) ∈ R ∧ (y₀, y₂) ∈ S)", "נוכיח כל צד לחוד", ובכל צד "יש לנו ביד..."; "ומעכשיו (y₁, y₂) ∈ (S ∘ R) בידינו". "לפי השוויון R ∘ S = S ∘ R נחליף את S ∘ R ב־R ∘ S בתוך (y₁, y₂) ∈ (S ∘ R), ונקבל (y₁, y₂) ∈ (R ∘ S)", הגדרת ההרכבה עליה, ו"יהי y₃ עצם כך ש־((y₁, y₃) ∈ S ∧ (y₃, y₂) ∈ R)" ו"מה"וגם"". במטרה: "לפי הגדרת ההרכבה, כדי להוכיח (x₀, z₀) ∈ (R ∘ S) די להוכיח ∃y ((x₀, y) ∈ S ∧ (y, z₀) ∈ R)", "נבחר את העצם y₃ ונוכיח ((x₀, y₃) ∈ S ∧ (y₃, z₀) ∈ R)", ו"נוכיח כל צד לחוד". בחלק "נוכיח (x₀, y₃) ∈ S": הצבה בטרנזיטיביות של S של x₀, y₁ ו־y₃, "לפי הגרירה … כדי להוכיח (x₀, y₃) ∈ S די להוכיח ((x₀, y₁) ∈ S ∧ (y₁, y₃) ∈ S)", ובכל צד "יש לנו ביד...". בחלק "נוכיח (y₃, z₀) ∈ R": הצבה בטרנזיטיביות של R של y₃, y₂ ו־z₀, גרירה אחורה, ובכל צד "יש לנו ביד...". 41 בלוקים.
 
 ![שלב 8.14](images/unit8-level14-a.png)
 
 **שיקולים ושאלות להכרעה.**
 - ארוך מאוד (41 בלוקים), יותר מכל שלב ביחידות 6–7. 12 מהבלוקים הם הצבות ו"יהי". זה המועמד הראשון למהלך שמציב כמה עצמים בבת אחת.
-- ארבעה עצמים חדשים, z₀ (מה"לכל") ו־z₁, z₂, z₃ (מה"קיים"), עם אותה אות. הרמז מדבר על "z₁ ו־z₂ באמצע"; האם השמות ברורים מספיק, או שעדיף שהמהלך ייתן שמות לפי המקום (למשל u₀, v₀)?
-- המסיחה (z₁, z₂) ∈ (R ∘ S) היא בדיוק מה שמקבלים אחרי ההחלפה; מי שבוחר בה צריך להוכיח אותה, ונתקע. (x₀, z₀) ∈ S לא נובעת ממה שבידינו.
+- הוחלט: אמצע ההרכבה נקרא y, כמו בהגדרות (של ההרכבה ושל הטרנזיטיביות), וזוג בהכלה שיש בה הרכבה נקרא (x₀, z₀). כך ההצבה בטרנזיטיביות היא לפי סדר האותיות, x₀, y₀, z₀. כאן שלושת האמצעים הם y₁, y₂, y₃ (y₀ הוא מה"לכל"). קודם האמצע נקרא z, וזוג היה (x₀, y₀), כך שבשלב 8.9 היה צריך להציב x₀, z₀, y₀, בסדר הפוך לאותיות.
+- המסיחה (y₁, y₂) ∈ (R ∘ S) היא בדיוק מה שמקבלים אחרי ההחלפה; מי שבוחר בה צריך להוכיח אותה, ונתקע. (x₀, z₀) ∈ S לא נובעת ממה שבידינו.
 
 ## שאלות שנוגעות ליחידה כולה
 
